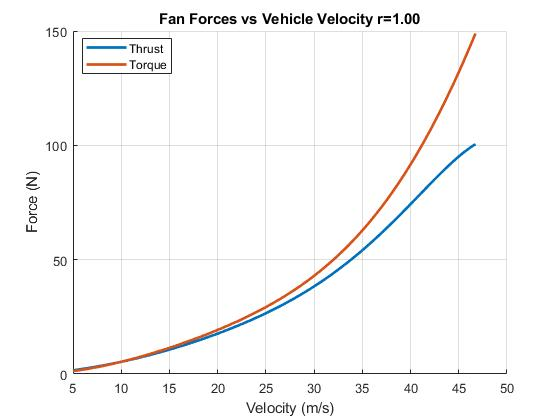
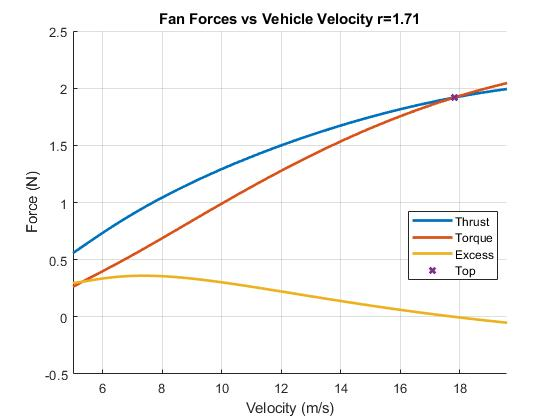
Excess Fan Force

diff --git a/Fan.m b/Fan.m
@@ -141,15 +141,23 @@ classdef Fan
 			v = Vmin:(Vmax-Vmin)/1000:Vmax;
 			w = vehicle.s * v;
 			[T, Q] = self.Find(self.air.TrueSpeed(v), w);
+			Ft = T;
+			Fq = vehicle.s*Q;
+			Fe = Ft-Fq;
+			[~, k0] = min(abs(Fe));
+
 			figure();
 			hold('on');
 			grid('on');
 			title(sprintf('Fan Forces vs Vehicle Velocity r=%.2f', vehicle.r));
 			xlabel('Velocity (m/s)');
 			ylabel('Force (N)');
-			plot(v, T, 'LineWidth', 2);
-			plot(v, vehicle.s*Q, 'LineWidth', 2);
-			legend('Thrust', 'Torque', 'Location', 'Best');
+			plot(v, Ft, 'LineWidth', 2);
+			plot(v, Fq, 'LineWidth', 2);
+			plot(v, Fe, 'LineWidth', 2);
+			plot(v(k0), Ft(k0), 'x', 'LineWidth', 2);
+			xlim([Vmin v(k0)*1.1]);
+			legend('Thrust', 'Torque', 'Excess', 'Top', 'Location', 'Best');
 		end
 	end
 end

diff --git a/Main.m b/Main.m
@@ -17,10 +17,10 @@ fan = GetAPC14x7E(air);
 % fan.PlotFitJ();
 fprintf(fileID, fan.RootMeanSquare());
 vehicle = Vehicle(fan, air, 1);
-% fan.PlotFitTQ(vehicle);
 
 [Vt, rt] = SearchTransmissionRatios(vehicle, 0.1:0.01:5);
 vehicle = vehicle.Setr(rt);
+fan.PlotFitTQ(vehicle);
 v = Simulate(vehicle, 100);
 [Vmin, Vmax] = vehicle.SpeedBoundary();
 fprintf(fileID, 'r=%.2f Vt=%.1fm/s B=[%.1f, %.1f]m/s\n', rt, Vt, Vmin, Vmax);
